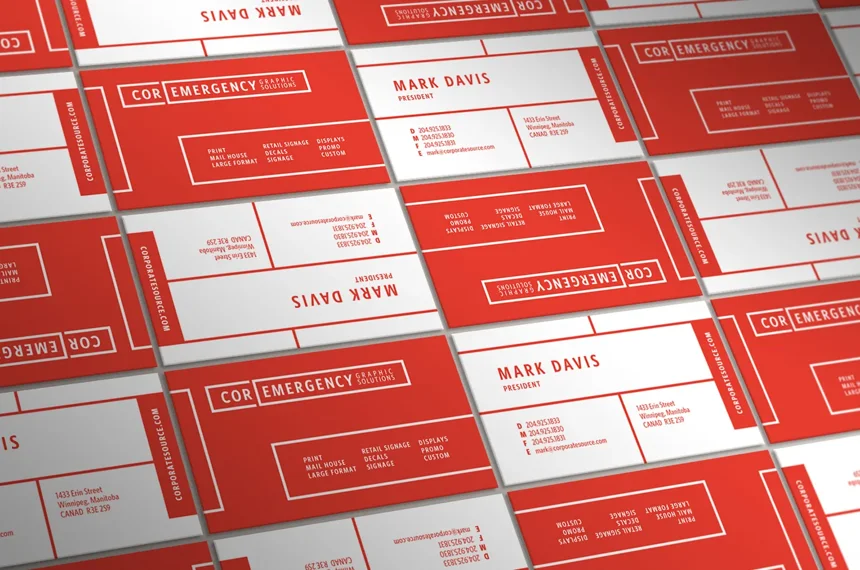
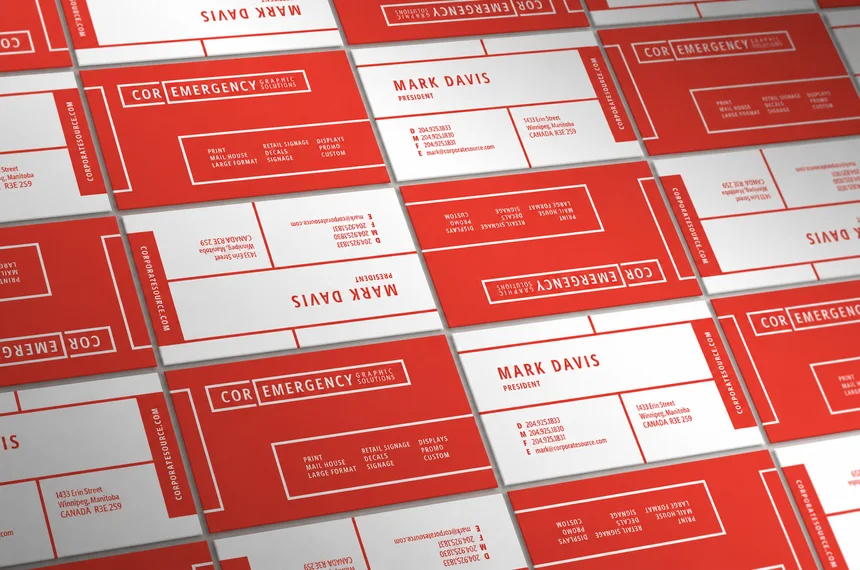
Use approved Corporate Source business card image

diff --git a/projects/corporate-source.html b/projects/corporate-source.html
@@ -7,7 +7,7 @@
 <header class="bar shell"><a class="wordmark" href="../">Rommel Cabanal</a>
 <nav aria-label="Main navigation"><a href="../#work">Work</a><a href="../#contact">Contact</a></nav></header>
 <main id="main"><section class="shell project-head"><a class="back" href="../#work">All work</a><div class="project-meta label"><span class="plain-label">Brand identity</span></div><h1>Corporate Source Printers</h1></section>
-<section class="shell project-photos" aria-label="Project images"><button type="button" aria-label="Enlarge image: Red and white business cards arranged in rows"><img src="../media/work/corporate-source/corp-stationary-2.webp" alt="Red and white business cards arranged in rows" width="1440" height="955" fetchpriority=high></button><button type="button" aria-label="Enlarge image: White boxed lettering on a red background"><img src="../media/work/corporate-source/corp-logo-2.webp" alt="White boxed lettering on a red background" width="1440" height="955" loading=lazy></button><button type="button" aria-label="Enlarge image: White stationery, envelopes and red pen arranged on a table"><img src="../media/work/corporate-source/corp-stationary-3.webp" alt="White stationery, envelopes and red pen arranged on a table" width="1440" height="955" loading=lazy></button><button type="button" aria-label="Enlarge image: Two stacks of red and white business cards"><img src="../media/work/corporate-source/corp-stationary-1.webp" alt="Two stacks of red and white business cards" width="1440" height="955" loading=lazy></button></section>
+<section class="shell project-photos" aria-label="Project images"><button type="button" aria-label="Enlarge image: Red and white business cards arranged in rows"><img src="../media/work/corporate-source/corp-stationary-2.webp" alt="Red and white business cards arranged in rows" width="1540" height="1021" fetchpriority=high></button><button type="button" aria-label="Enlarge image: White boxed lettering on a red background"><img src="../media/work/corporate-source/corp-logo-2.webp" alt="White boxed lettering on a red background" width="1440" height="955" loading=lazy></button><button type="button" aria-label="Enlarge image: White stationery, envelopes and red pen arranged on a table"><img src="../media/work/corporate-source/corp-stationary-3.webp" alt="White stationery, envelopes and red pen arranged on a table" width="1440" height="955" loading=lazy></button><button type="button" aria-label="Enlarge image: Two stacks of red and white business cards"><img src="../media/work/corporate-source/corp-stationary-1.webp" alt="Two stacks of red and white business cards" width="1440" height="955" loading=lazy></button></section>
 <section class="shell project-info"><h2>Project details</h2>
                 <div class="case-description">
                   <p>This rebrand takes the grid familiar to a commercial and digital printer and makes it visible in the identity. Boxed lettering and a red-and-white palette give Corporate Source Printers a wordmark that can anchor a single card or repeat across a stationery system.</p>
